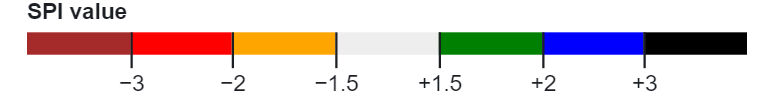
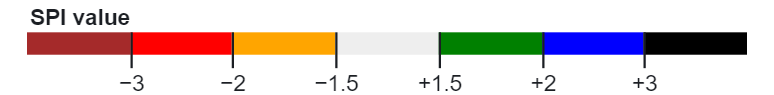
Added SPI popup value on click
And changed opacity color spi legend

Changed region(s): [[0.031, 0.0211, 0.186, 0.2737]]

diff --git a/App/index.html b/App/index.html
@@ -86,6 +86,13 @@ var mymap = L.map('mapid', {
     });
     }
 
+    function onEachFeature(feature, layer) {
+        // does this feature have a property named popupContent?
+        if (feature.properties && feature.properties.spi) {
+            layer.bindPopup("SPI=" + feature.properties.spi);
+        }
+    }
+
     /**
      * Fill drop-down menu (combo box) SPI index every time data change
      **/
@@ -179,13 +186,15 @@ var mymap = L.map('mapid', {
             }
             //document.getElementsByTagName('body')[0].innerHTML = geojsonFeature;
             tmpJSON = JSON.parse(geojsonFeature);
+            
             geojsonFeature = '{"type":"FeatureCollection", "features":['; //Solved issue, after data were showed the variable was fill of unused GeoJSON string and that was preventing to show the new data.
             //Previous layer is removed if the page hasn't been refreshed.
             //celleGeo = L.geoJSON(tmpJSON).addTo(mymap);//This show the blue grid!!!!!
             if(noRefresh){
                 mymap.removeLayer(layerGEO);
             }
-            layerGEO = L.geoJson(tmpJSON, { style: style }).addTo(mymap); //This show only the colored grid sections
+            layerGEO = L.geoJson(tmpJSON, {style: style,onEachFeature: onEachFeature}).addTo(mymap); //This show only the colored grid sections
+            //L.geoJSON(tmpJSON, {onEachFeature: onEachFeature}).addTo(mymap); //Adding on click show SPI value
             noRefresh = 1;
         });
     }

diff --git a/App/css/my.css b/App/css/my.css
@@ -7,5 +7,5 @@ h1{text-align:center;}
 .mainBar span{padding: 2px; margin: 2px; font-weight: bold; font-family: Verdana, Geneva, Tahoma, sans-serif;}
 .mainBar span *{margin-top: 12px;}
 #colleg{position: fixed;bottom: 18px;left: 18px;}
-#colleg img{width:320px;opacity:30%;}
-#colleg img:hover{opacity:90%;}
+#colleg img{width:35%;opacity:50%;}
+#colleg img:hover{opacity:100%;}
